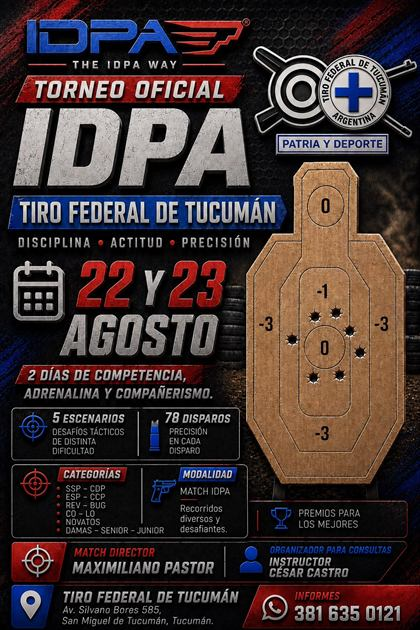
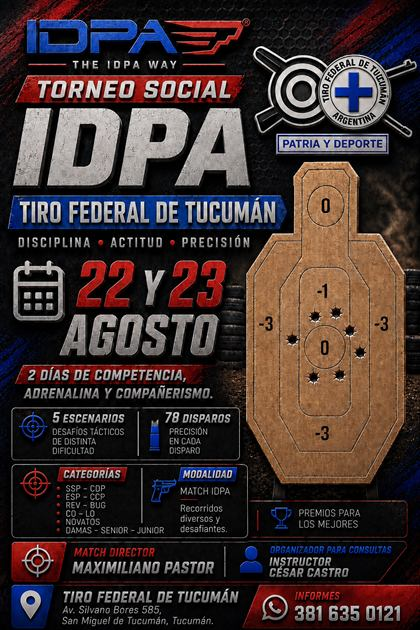
Afiche y calendario nuevos, y el torneo pasa a Social Tier 1
El afiche corregido dice Torneo Social, y el calendario ya trae Tucuman
el 22 y 23 de agosto, sin la fecha de Fenix y con noviembre.

El titulo de la proxima fecha pasa a 'Torneo Social IDPA' con la chapa
Tier 1, y el boton del menu queda dorado como el del calendario.

diff --git a/index.html b/index.html
@@ -6,7 +6,7 @@
 <title>Club 9x19 Shooting — Organizamos torneos de IDPA</title>
 <meta name="description" content="Club organizador de eventos de tiro defensivo IDPA en la Argentina, afiliado a la International Defensive Pistol Association con el número CL100757. Matches, clasificaciones oficiales y clínicas.">
 <link rel="icon" href="assets/icono.png">
-<link rel="stylesheet" href="estilo.css?v=32">
+<link rel="stylesheet" href="estilo.css?v=33">
 
 <meta property="og:type" content="website">
 <meta property="og:title" content="Club 9x19 Shooting">
@@ -21,7 +21,7 @@
     <a class="marca" href="/"><img src="assets/logo-club.png" alt="Club 9x19 Shooting"></a>
     <img class="medalla" src="assets/medalla.png" alt="Medalla del club: 9x19 Shooting, IDPA Argentina">
     <nav>
-      <a href="#proximas">Próximas Fechas
+      <a class="destacado" href="#proximas">Próximas Fechas
         <svg class="ico" viewBox="0 0 24 24" aria-hidden="true">
           <rect x="3" y="5" width="18" height="16" rx="2.5"/>
           <path d="M3 9.5h18M8 2.5v4M16 2.5v4"/>
@@ -58,9 +58,9 @@
         </svg>
       </a>
 
-      <a class="aparte" href="assets/calendario-2026-web.jpg"
-         data-imagen="assets/calendario-2026-web.jpg"
-         data-imagen-grande="assets/calendario-2026.jpg"
+      <a class="aparte" href="assets/calendario-2026-web.jpg?v=2"
+         data-imagen="assets/calendario-2026-web.jpg?v=2"
+         data-imagen-grande="assets/calendario-2026.jpg?v=2"
          data-texto-imagen="Calendario 2026 del Club 9x19 Shooting: fechas tentativas de la Región Santa Fe y la Región Cuyo">
         <span aria-hidden="true">📅</span> Calendario 2026
       </a>
@@ -92,10 +92,10 @@
 
     <div class="grilla-proximas">
       <article class="proxima-fecha" data-hasta="2026-08-23">
-        <a class="afiche" href="assets/afiches/tucuman.jpg"
-           data-imagen="assets/afiches/tucuman.jpg"
-           data-texto-imagen="Afiche del Torneo Oficial IDPA en el Tiro Federal de Tucumán, 22 y 23 de agosto de 2026">
-          <img src="assets/afiches/tucuman-mini.jpg" alt="Afiche del torneo" loading="lazy">
+        <a class="afiche" href="assets/afiches/tucuman.jpg?v=2"
+           data-imagen="assets/afiches/tucuman.jpg?v=2"
+           data-texto-imagen="Afiche del Torneo Social IDPA en el Tiro Federal de Tucumán, 22 y 23 de agosto de 2026">
+          <img src="assets/afiches/tucuman-mini.jpg?v=2" alt="Afiche del torneo" loading="lazy">
         </a>
 
         <div class="cuando">
@@ -106,7 +106,7 @@
 
         <div class="que">
           <p class="hito">Nuestro primer torneo en esta sede</p>
-          <h3>Torneo Oficial IDPA</h3>
+          <h3>Torneo Social IDPA <span class="tier">Tier 1</span></h3>
           <p class="donde">
             <img src="assets/logos/tucuman.png" alt="" loading="lazy">
             Tiro Federal de Tucumán<br>

diff --git a/estilo.css b/estilo.css
@@ -179,6 +179,13 @@ a { color: var(--acento); }
 .barra nav a:hover { transform: translateY(-1px); }
 .barra nav a:active { box-shadow: var(--hundido); transform: translateY(0); }
 
+/* El botón que hay que mirar primero, con el mismo dorado del calendario. */
+.barra nav a.destacado {
+  background: var(--acento);
+  color: var(--acento-texto);
+  font-weight: 700;
+}
+
 /* El logo de IDPA en lugar de la palabra. Los botones se miden con flex y
    todos comparten la misma altura de línea, así el logo puede ser más alto
    que el texto sin estirar el botón. */
@@ -372,6 +379,20 @@ a { color: var(--acento); }
 }
 
 .proxima-fecha h3 { font-size: 21px; margin-bottom: 10px; }
+
+/* El nivel del match, al lado del nombre. */
+.proxima-fecha .tier {
+  display: inline-block;
+  margin-left: 6px;
+  padding: 3px 10px;
+  border-radius: 999px;
+  border: 1px solid var(--borde);
+  box-shadow: var(--relieve-chico);
+  font-size: 13px;
+  font-weight: 700;
+  color: var(--texto-suave);
+  vertical-align: 3px;
+}
 .proxima-fecha .donde {
   margin-bottom: 10px;
   font-weight: 600;

diff --git a/torneos/clinica-esperanza/index.html b/torneos/clinica-esperanza/index.html
@@ -6,7 +6,7 @@
 <title>Clínica y Clasificación en Tiro Federal de Esperanza — Club 9x19 Shooting</title>
 <meta name="description" content="Fotos de la clínica y clasificación de IDPA que organizó el Club 9x19 Shooting en Tiro Federal de Esperanza, Esperanza, Santa Fe, el 21 y 22 de febrero de 2026.">
 <link rel="icon" href="/assets/icono.png">
-<link rel="stylesheet" href="/estilo.css?v=32">
+<link rel="stylesheet" href="/estilo.css?v=33">
 
 <meta property="og:type" content="website">
 <meta property="og:title" content="Clínica y Clasificación — Tiro Federal de Esperanza">

diff --git a/torneos/clinica-tucuman/index.html b/torneos/clinica-tucuman/index.html
@@ -6,7 +6,7 @@
 <title>Clínica y Clasificación en Tiro Federal de Tucumán — Club 9x19 Shooting</title>
 <meta name="description" content="Fotos de la clínica y clasificación de IDPA que organizó el Club 9x19 Shooting en Tiro Federal de Tucumán, San Miguel de Tucumán, el 23 de mayo de 2026.">
 <link rel="icon" href="/assets/icono.png">
-<link rel="stylesheet" href="/estilo.css?v=32">
+<link rel="stylesheet" href="/estilo.css?v=33">
 
 <meta property="og:type" content="website">
 <meta property="og:title" content="Clínica y Clasificación — Tiro Federal de Tucumán">

diff --git a/score/index.html b/score/index.html
@@ -6,7 +6,7 @@
 <title>9x19 Score — Puntuá matches de IDPA desde el celular</title>
 <meta name="description" content="Aplicación Android para organizar y puntuar competencias de IDPA: etapas, competidores, puntajes, resultados y sincronización entre varios celulares. Funciona sin conexión. Desarrollada por el Club 9x19 Shooting.">
 <link rel="icon" href="../assets/icono.png">
-<link rel="stylesheet" href="../estilo.css?v=32">
+<link rel="stylesheet" href="../estilo.css?v=33">
 
 <meta property="og:type" content="website">
 <meta property="og:title" content="9x19 Score">

diff --git a/torneos/clinica-san-luis/index.html b/torneos/clinica-san-luis/index.html
@@ -6,7 +6,7 @@
 <title>Clínica y Clasificación en Polígono de Tiro Fénix — Club 9x19 Shooting</title>
 <meta name="description" content="Fotos de la clínica y clasificación de IDPA que organizó el Club 9x19 Shooting en Polígono de Tiro Fénix, San Luis, el 1 de marzo de 2026.">
 <link rel="icon" href="/assets/icono.png">
-<link rel="stylesheet" href="/estilo.css?v=32">
+<link rel="stylesheet" href="/estilo.css?v=33">
 
 <meta property="og:type" content="website">
 <meta property="og:title" content="Clínica y Clasificación — Polígono de Tiro Fénix">

diff --git a/torneos/tercera-fecha-esperanza/index.html b/torneos/tercera-fecha-esperanza/index.html
@@ -6,7 +6,7 @@
 <title>Tercera Fecha en Tiro Federal de Esperanza — Club 9x19 Shooting</title>
 <meta name="description" content="Fotos de la tercera fecha de IDPA que organizó el Club 9x19 Shooting en Tiro Federal de Esperanza, Esperanza, Santa Fe, el 12 de julio de 2026.">
 <link rel="icon" href="/assets/icono.png">
-<link rel="stylesheet" href="/estilo.css?v=32">
+<link rel="stylesheet" href="/estilo.css?v=33">
 
 <meta property="og:type" content="website">
 <meta property="og:title" content="Tercera Fecha — Tiro Federal de Esperanza">

diff --git a/torneos/primera-fecha-esperanza/index.html b/torneos/primera-fecha-esperanza/index.html
@@ -6,7 +6,7 @@
 <title>Primera Fecha en Tiro Federal de Esperanza — Club 9x19 Shooting</title>
 <meta name="description" content="Fotos de la primera fecha de IDPA que organizó el Club 9x19 Shooting en Tiro Federal de Esperanza, Esperanza, Santa Fe, el 31 de mayo de 2026.">
 <link rel="icon" href="/assets/icono.png">
-<link rel="stylesheet" href="/estilo.css?v=32">
+<link rel="stylesheet" href="/estilo.css?v=33">
 
 <meta property="og:type" content="website">
 <meta property="og:title" content="Primera Fecha — Tiro Federal de Esperanza">

diff --git a/torneos/primera-fecha-fenix/index.html b/torneos/primera-fecha-fenix/index.html
@@ -6,7 +6,7 @@
 <title>Primera Fecha en Polígono de Tiro Fénix — Club 9x19 Shooting</title>
 <meta name="description" content="Fotos de la primera fecha de IDPA que organizó el Club 9x19 Shooting en Polígono de Tiro Fénix, San Luis, el 12 de abril de 2026.">
 <link rel="icon" href="/assets/icono.png">
-<link rel="stylesheet" href="/estilo.css?v=32">
+<link rel="stylesheet" href="/estilo.css?v=33">
 
 <meta property="og:type" content="website">
 <meta property="og:title" content="Primera Fecha — Polígono de Tiro Fénix">

diff --git a/torneos/index.html b/torneos/index.html
@@ -6,7 +6,7 @@
 <title>Torneos — Club 9x19 Shooting</title>
 <meta name="description" content="Los matches de IDPA que organiza el Club 9x19 Shooting, fecha por fecha: Polígono de Tiro Fénix en San Luis, Tiro Federal de Esperanza y Tiro Federal Argentino de Santa Fe.">
 <link rel="icon" href="/assets/icono.png">
-<link rel="stylesheet" href="/estilo.css?v=32">
+<link rel="stylesheet" href="/estilo.css?v=33">
 
 <meta property="og:type" content="website">
 <meta property="og:title" content="Torneos del Club 9x19 Shooting">

diff --git a/torneos/segunda-fecha-santa-fe/index.html b/torneos/segunda-fecha-santa-fe/index.html
@@ -6,7 +6,7 @@
 <title>Segunda Fecha en Tiro Federal Argentino — Club 9x19 Shooting</title>
 <meta name="description" content="Fotos de la segunda fecha de IDPA que organizó el Club 9x19 Shooting en Tiro Federal Argentino, Santa Fe, el 14 de junio de 2026.">
 <link rel="icon" href="/assets/icono.png">
-<link rel="stylesheet" href="/estilo.css?v=32">
+<link rel="stylesheet" href="/estilo.css?v=33">
 
 <meta property="og:type" content="website">
 <meta property="og:title" content="Segunda Fecha — Tiro Federal Argentino">

diff --git a/torneos/torneo-santa-fe-marzo/index.html b/torneos/torneo-santa-fe-marzo/index.html
@@ -6,7 +6,7 @@
 <title>Torneo en Tiro Federal Argentino — Club 9x19 Shooting</title>
 <meta name="description" content="Fotos de la torneo de IDPA que organizó el Club 9x19 Shooting en Tiro Federal Argentino, Santa Fe, el 22 de marzo de 2026.">
 <link rel="icon" href="/assets/icono.png">
-<link rel="stylesheet" href="/estilo.css?v=32">
+<link rel="stylesheet" href="/estilo.css?v=33">
 
 <meta property="og:type" content="website">
 <meta property="og:title" content="Torneo — Tiro Federal Argentino">
